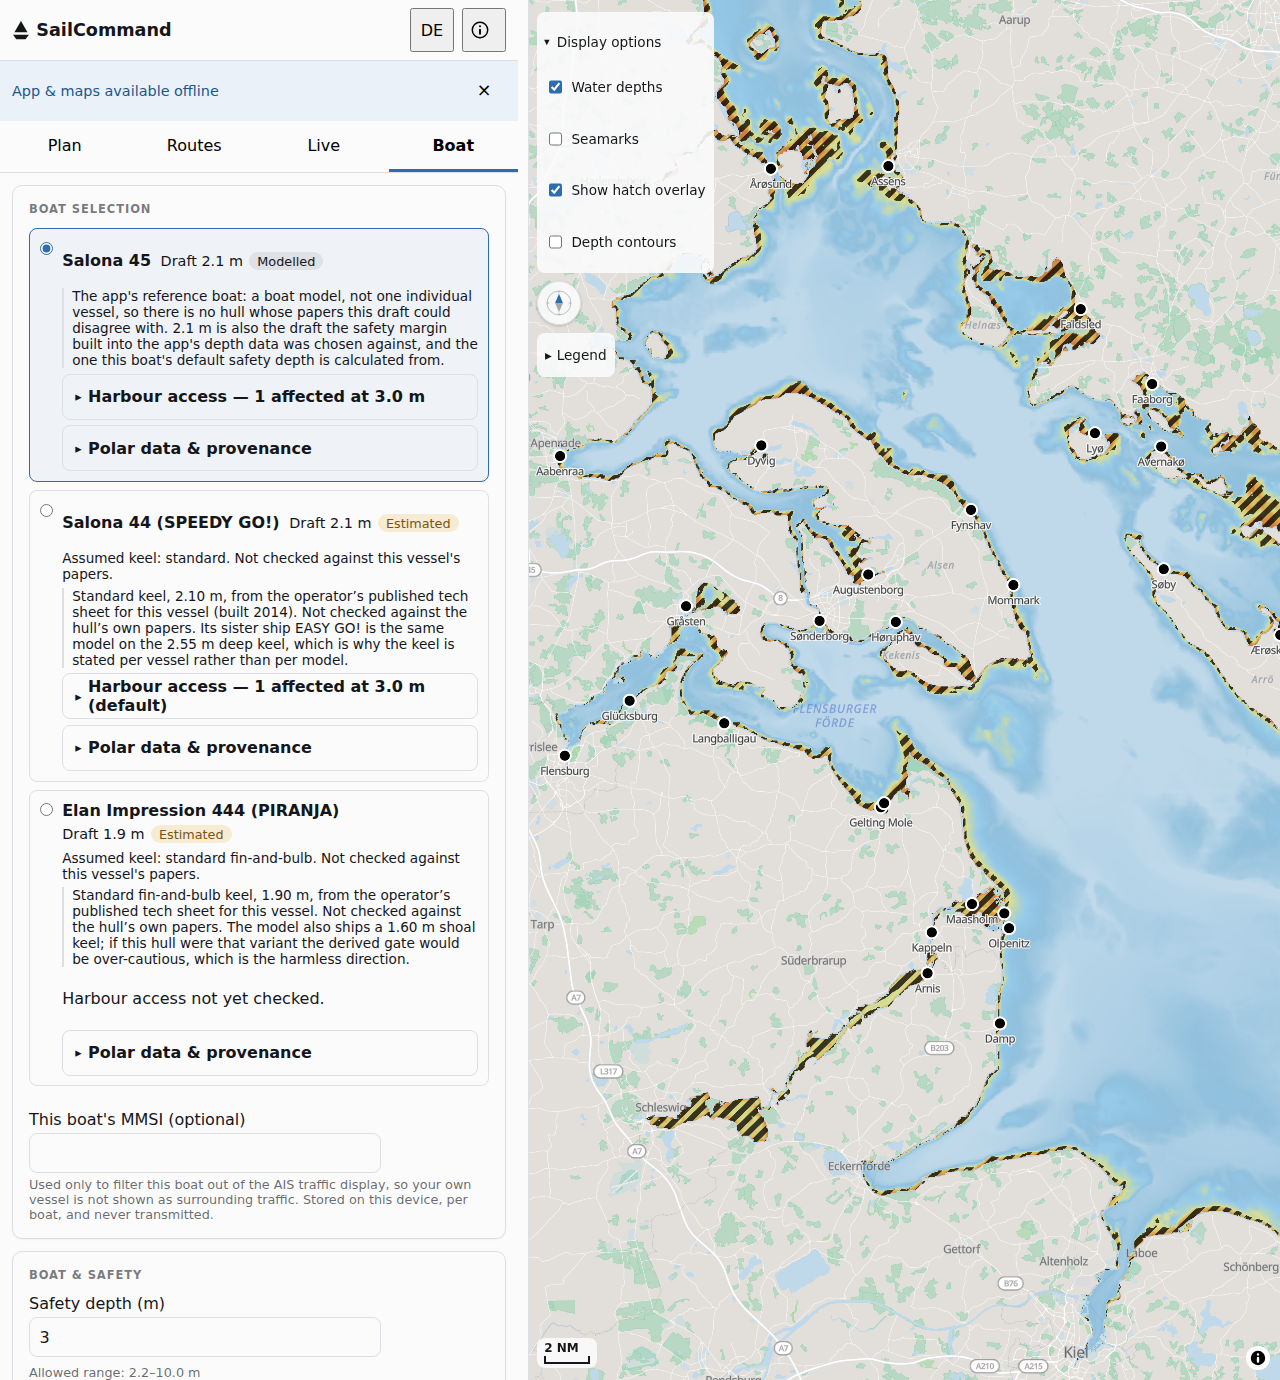
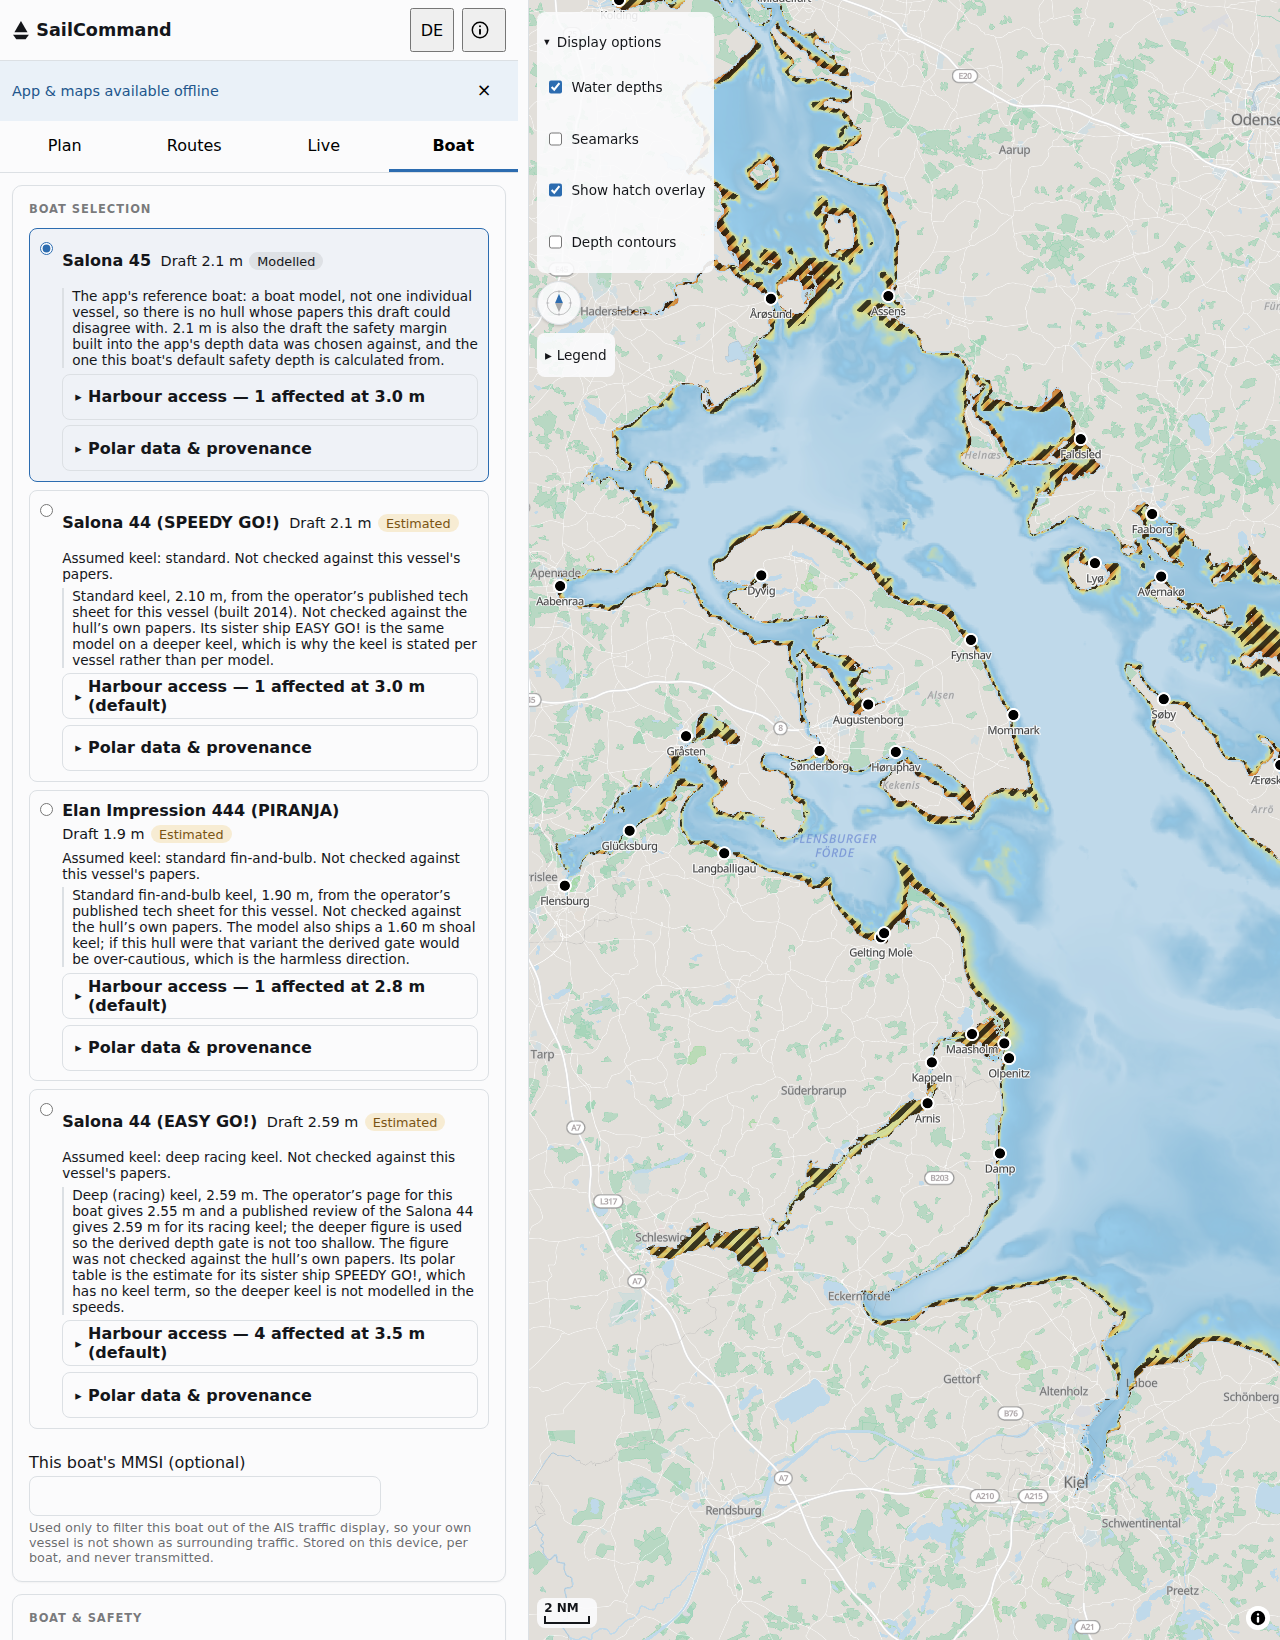
docs: v0.50.0 release sweep (#132 ritual)
Fold changelog.d into [0.50.0] (one under Added, namely #1575; one under
Fixed, namely #1564) and delete the two fragments.

Roll ROADMAP Now/Next, CONTRIBUTING milestones and the security assurance
case status header to this cut; A06 alert query re-run (0 open).

Fleet claims updated for the four-boat catalogue: README intro and polar
provenance, acceptance.md harbour-access and rig-comparison checks.
ROADMAP: #18/#19 sit in Backlog, not Icebox.

Recapture the three docs screenshots against a develop preview build.

diff --git a/docs/security-assurance-case.md b/docs/security-assurance-case.md
@@ -1,7 +1,7 @@
 # SailCommand security assurance case
 
 **Status:** current as of 2026-09-30, describing `develop` at the time of
-writing (`v0.49.0` cut). Reviewed at each release cut.
+writing (`v0.50.0` cut). Reviewed at each release cut.
 **Audience:** users deciding whether to trust the app, and reviewers assessing
 the project (this document is the artifact for the OpenSSF Best Practices
 `assurance_case` criterion).
@@ -375,7 +375,7 @@ place to occur, not that it was judged unlikely.
 | **A03 Injection** (CWE-79 XSS, CWE-89 SQLi, CWE-611 XXE) | Countered | No SQL and no server-side interpreter. XSS: no `innerHTML` / `dangerouslySetInnerHTML` / `eval` / `new Function` anywhere; React escapes by default. XXE: `DOMParser` with `application/xml` does not resolve external entities. CodeQL's `js/xss-through-dom` alert on that parse is a **documented false positive** — its DOM-XSS sink model is mime-insensitive, while an `application/xml` parse is inert and the parser extracts only numeric coordinates and enumerated notices |
 | **A04 Insecure design** | Countered | This document is the design argument; see [§5](#5-secure-design-argument). Threats were considered against the architecture, and the largest control is architectural: no backend, no accounts, no central data |
 | **A05 Security misconfiguration** | Countered | Minimal workflow permissions, SHA-pinned actions, protected branches, secret scanning with push protection, no debug endpoints, static hosting. GitHub Pages cannot set response headers, so the app injects a `<meta http-equiv="Content-Security-Policy">` at build time (`cspMeta()` in `app/vite.config.ts`) with `default-src 'self'`, a `connect-src` allowlist of `'self'` plus Open-Meteo and aisstream.io, `worker-src 'self'` (no `blob:` — it would defeat `script-src 'self'`), `img-src` widened to `data:`/`blob:` where maplibre-gl 6 demonstrably needs it, and no `'unsafe-inline'`/`'unsafe-eval'`, plus the static `<meta name="referrer" content="strict-origin-when-cross-origin">` already present in `app/index.html` ([#223](https://github.com/DocGerd/sail_command/issues/223)). The meta form cannot express `frame-ancestors` or `report-uri` — accepted, static host with no framing threat model and no collector |
-| **A06 Vulnerable and outdated components** (CWE-1104) | Countered | Lockfiles for every ecosystem; Dependabot across five update configurations spanning three package ecosystems (npm ×2, pip ×2, github-actions) weekly plus security updates; no open Dependabot alerts — the live state is the fact rather than this sentence: `gh api repos/DocGerd/sail_command/dependabot/alerts --jq '[.[]\|select(.state=="open")]\|length'` (0 at the `v0.49.0` cut); a committed third-party notices inventory whose drift fails CI; no vendored or forked convenience copies |
+| **A06 Vulnerable and outdated components** (CWE-1104) | Countered | Lockfiles for every ecosystem; Dependabot across five update configurations spanning three package ecosystems (npm ×2, pip ×2, github-actions) weekly plus security updates; no open Dependabot alerts — the live state is the fact rather than this sentence: `gh api repos/DocGerd/sail_command/dependabot/alerts --jq '[.[]\|select(.state=="open")]\|length'` (0 at the `v0.50.0` cut); a committed third-party notices inventory whose drift fails CI; no vendored or forked convenience copies |
 | **A07 Identification and authentication failures** | N/A by architecture | There is no authentication. No accounts, no passwords, no sessions, no password reset, nothing to brute-force |
 | **A08 Software and data integrity failures** (CWE-502) | **Partially countered** | Reproducible double-build with byte-drift gating, SHA-pinned actions, protected branches, post-deploy smoke probe, and — from `v0.8.0` — SSH-signed release tags verifiable via `git tag -v` ([#322](https://github.com/DocGerd/sail_command/issues/322)); the signing key is registered and the `git tag -v` verification path is proven end to end for every signed tag including `v0.8.0`, so a user willing to run that command can confirm a tag traces to the maintainer. GitHub's Verified badge — the no-local-config channel — is a documented exception for the `v0.8.0` tag itself (signed under an email not registered on the maintainer's GitHub account; see `v0.8.1`'s CHANGELOG entry) and does show correctly for **every** tag from `v0.8.1` onward, each reporting `verified: true, reason: "valid"` — re-derivable with `gh api repos/DocGerd/sail_command/git/tags/$(git rev-parse refs/tags/vX.Y.Z) --jq .verification` rather than trusted from a list here. No untrusted deserialization: IndexedDB uses structured clone of the app's own records, and a corrupt record is isolated to its own row rather than blanking the list. **Still partial**: signing covers the tagged commit's authorship, not the deployed artifact bytes GitHub Pages serves, and `v0.1.0`–`v0.7.0` remain permanently unsigned |
 | **A09 Logging and monitoring failures** | Accepted, documented | There is deliberately no telemetry — a privacy choice that means client-side attacks cannot be observed centrally. Repository-side monitoring exists (CodeQL, Dependabot, Scorecard, deploy smoke probe). For a client-only app with no user data on any server, the privacy benefit is judged to outweigh the lost visibility |

diff --git a/ROADMAP.md b/ROADMAP.md
@@ -13,31 +13,32 @@ The authoritative, always-current view is the
 milestones. This file is the human-readable summary of that state, refreshed at
 each release cut.
 
-Current release: **v0.49.0**. See [`CHANGELOG.md`](CHANGELOG.md) for what has
+Current release: **v0.50.0**. See [`CHANGELOG.md`](CHANGELOG.md) for what has
 shipped.
 
-## Now — v0.49.0
+## Now — v0.50.0
 
-The `v0.49.0` cut (2026-09-30) worked the
-[`v0.49.0` milestone](https://github.com/DocGerd/sail_command/milestones):
-four user-visible changes (per `CHANGELOG.md`'s own `[0.49.0]` section) — the
-map legend explaining the `*` forced-segment mark and the segment-mode merge
-refusal naming every waypoint to fix ([#1251](https://github.com/DocGerd/sail_command/issues/1251)), the scale bar re-measuring
-when the map options panel is opened or closed by hand ([#1552](https://github.com/DocGerd/sail_command/issues/1552)), a
-segment-mode-only change no longer collapsing that panel ([#1553](https://github.com/DocGerd/sail_command/issues/1553)), and the
-depth and seamark checkboxes lining up with their labels once a route is
-loaded ([#1558](https://github.com/DocGerd/sail_command/issues/1558)) — plus four issues with no user-visible surface: follow-ups
-to the offline-map-region backfill shipped in `v0.48.0` ([#1550](https://github.com/DocGerd/sail_command/issues/1550)), a rule in place of an incomplete
-`localStorage` key list in the security assurance case ([#1560](https://github.com/DocGerd/sail_command/issues/1560)), a note in
-the sweep-closure skill on ledger entries recorded at a PR head ([#1515](https://github.com/DocGerd/sail_command/issues/1515)),
-and [#1454](https://github.com/DocGerd/sail_command/issues/1454), closed as already resolved by PR #1488 (`v0.44.0`) and verified
-with the sweep harness, with no code change in this cut.
+The `v0.50.0` cut (2026-09-30) worked the
+[`v0.50.0` milestone](https://github.com/DocGerd/sail_command/milestones):
+two user-visible changes (per `CHANGELOG.md`'s own `[0.50.0]` section) — the
+Salona 44 *EASY GO!* (deep keel, 2.59 m draft) joining the boat catalogue as an
+estimated-polar boat, with its 3.5 m default safety depth flagging the
+harbours it cannot reach ([#1575](https://github.com/DocGerd/sail_command/issues/1575)), and a scroll cue on the height-capped open
+display-options list below 820 px ([#1564](https://github.com/DocGerd/sail_command/issues/1564)) — plus two issues with no
+user-visible surface: sister-ship polar sharing in the pipeline, which *EASY
+GO!* uses ([#567](https://github.com/DocGerd/sail_command/issues/567)), and a tidied sentence in the security assurance case
+([#1570](https://github.com/DocGerd/sail_command/issues/1570)).
 
-## Next — v0.50.0
+The `#1240` spike (PR #1577) shipped a recommendation only, in
+`docs/spikes/1240-grosser-belt-coverage.md`; ([#1240](https://github.com/DocGerd/sail_command/issues/1240)) itself moved to
+`Backlog`.
 
-The [`v0.50.0` milestone](https://github.com/DocGerd/sail_command/milestones)
-is empty as of this cut. The milestone page is
-the only authoritative view, check it directly rather than this file.
+## Next — v0.51.0
+
+The [`v0.51.0` milestone](https://github.com/DocGerd/sail_command/milestones)
+holds one issue as of this cut: the remaining self-resolving OpenSSF Scorecard
+findings ([#72](https://github.com/DocGerd/sail_command/issues/72)). The milestone page is the only authoritative view, check it
+directly rather than this file.
 
 ## Themes for the next year
 
@@ -101,7 +102,7 @@ transfer to a fork automatically).
 
 ### Routing depth
 
-The largest open product questions. Both sit in `Icebox` — deferred, not
+The largest open product questions. Both sit in `Backlog` — accepted, not yet
 scheduled into a release:
 
 - Currents, tides, and sea state (waves) in the isochrone cost

diff --git a/docs/acceptance.md b/docs/acceptance.md
@@ -121,10 +121,11 @@ results table at the bottom, and note it in the box below the check.
       the disclosure on a boat with ≥1 affected harbour (SPEEDY GO! and
       PIRANJA both affect Marstal at their own default depth): it lists the
       harbour under "Only via a shallower approach: …" ("Nur über eine
-      flachere Zufahrt: …") — the only wording reachable here: no real
-      catalogue boat is ever `unreachable` for any harbour at its own
-      default gate, so "Not reachable: …" ("Nicht erreichbar: …") cannot
-      be observed under this setup. Whichever of the three states is
+      flachere Zufahrt: …") — the only wording reachable on those two:
+      neither is ever `unreachable` for any harbour at its own default
+      gate, so "Not reachable: …" ("Nicht erreichbar: …") cannot be
+      observed there. EASY GO!'s 3.5 m default gate does reach it (Marstal
+      and Augustenborg, #1575). Whichever of the three states is
       showing (pending, one-line summary, or the disclosure) is chained
       into that boat's own radio's `aria-describedby`, alongside its
       existing keel/draft-
@@ -273,12 +274,12 @@ selected in §1.
     ETA and the chip reads "Faster: …". No ★ is shown when the two ETAs fall
     within 60 s ("… effectively tied …") or the passage runs entirely under
     engine ("Rig does not matter here …").
-  - **SPEEDY GO! or PIRANJA** — both their sails are tier Estimated, so the
-    comparison is withheld: **no ★ on either tab**, and the chip now names the
+  - **SPEEDY GO!, PIRANJA or EASY GO!** — both their sails are tier
+    Estimated, so the comparison is withheld: **no ★ on either tab**, and the chip now names the
     reason — "The sails were not compared for this passage — …'s polar data
     is not certificate-verified (tier: Estimated), so no faster rig is
     claimed" (#1398), where `…` is the plan's own boat name. A missing ★ on
-    these two boats is the designed outcome, not a defect — their two tables
+    these three boats is the designed outcome, not a defect — their two tables
     differ by the Salona 45's overlay ramp, which carries no information
     about the hull.
   - **Any boat, if the chip reads "The search ran out of time before

diff --git a/README.md b/README.md
@@ -13,9 +13,10 @@
 SailCommand plans time-optimal sailing routes from the Flensburg Fjord and
 Danish South Sea to the Little Belt, the western Great Belt approach and
 Fehmarn, using real hourly wind forecasts and an isochrone
-router that accounts for tacks and gybes. It ships polar tables for three
-boats — a Salona 45, a Salona 44 (SPEEDY GO!) and an Elan Impression 444
-(PIRANJA) — and routes for whichever one you pick. It runs entirely in the
+router that accounts for tacks and gybes. It ships polar tables for four
+boats — a Salona 45, a Salona 44 (SPEEDY GO!), an Elan Impression 444
+(PIRANJA) and a Salona 44 on the deep keel (EASY GO!) — and routes for
+whichever one you pick. It runs entirely in the
 browser, installs as an offline-capable app on Android, and needs no account
 or backend.
 
@@ -176,9 +177,10 @@ map area is already saved and what downloading it would cost.
 - **Boat polars (Salona 45)**: estimate derived from the ORC International
   2026 certificate for Salona 45 "Miles Ahead" (AUT 035/26), with downwind
   angles corrected to white-sails-only (non-spinnaker) performance.
-- **Boat polars (Salona 44 SPEEDY GO!, Elan Impression 444 PIRANJA)**:
-  **estimated, not measured**. No ORC/IRC certificate and no published VPP
-  was obtained for either hull, so each table is the Salona 45's
+- **Boat polars (Salona 44 SPEEDY GO!, Elan Impression 444 PIRANJA, Salona 44
+  EASY GO!)**: **estimated, not measured**. No ORC/IRC certificate and no
+  published VPP was obtained for any of these hulls (EASY GO! shares SPEEDY
+  GO!'s table), so each table is the Salona 45's
   certificate-anchored jib table scaled by one uniform hull scalar — the
   square root of the two hulls' sail-area/displacement ratios
   (figures from [sailboatdata.com](https://sailboatdata.com/)), with the

diff --git a/CHANGELOG.md b/CHANGELOG.md
@@ -7,6 +7,16 @@ and this project adheres to [Semantic Versioning](https://semver.org/spec/v2.0.0
 
 ## [Unreleased]
 
+## [0.50.0] - 2026-09-30
+
+### Added
+
+- Salona 44 "EASY GO!" (deep keel, 2.59 m draft) joins the boat catalogue with estimated polar tables shared with SPEEDY GO!; its 3.5 m default safety depth leaves some harbours unreachable, which the harbour markers and the boat-switch announcement flag, and drafts now show up to two decimals (#1575).
+
+### Fixed
+
+- On layouts below 820 px, the height-capped open "Anzeigeoptionen" ("Display options") list now shows a fade at its bottom edge while rows are out of view (#1564).
+
 ## [0.49.0] - 2026-09-30
 
 ### Changed
@@ -1230,7 +1240,8 @@ and this project adheres to [Semantic Versioning](https://semver.org/spec/v2.0.0
 - German/English (de/en) UI localization (#23).
 - Full offline operation after first load via a service worker precache, including the regional PMTiles basemap with Range/206 support (#26).
 
-[Unreleased]: https://github.com/DocGerd/sail_command/compare/v0.49.0...HEAD
+[Unreleased]: https://github.com/DocGerd/sail_command/compare/v0.50.0...HEAD
+[0.50.0]: https://github.com/DocGerd/sail_command/compare/v0.49.0...v0.50.0
 [0.49.0]: https://github.com/DocGerd/sail_command/compare/v0.48.0...v0.49.0
 [0.48.0]: https://github.com/DocGerd/sail_command/compare/v0.47.0...v0.48.0
 [0.47.0]: https://github.com/DocGerd/sail_command/compare/v0.46.0...v0.47.0

diff --git a/CONTRIBUTING.md b/CONTRIBUTING.md
@@ -229,14 +229,14 @@ labels on **pull requests** are applied automatically from changed paths by
 
 **Milestones**
 
-- `v0.50.0` — the milestone now being filled; it closes when the release PR
+- `v0.51.0` — the milestone now being filled; it closes when the release PR
   merges and the tag is pushed.
-- `v0.51.0` — the next MINOR release, opened fresh at the `v0.49.0` cut per
+- `v0.52.0` — the next MINOR release, opened fresh at the `v0.50.0` cut per
   the roll-forward convention below.
 - `Backlog` — accepted, not yet scheduled into a release.
 - `Icebox` — deferred / maybe-never; revisit opportunistically.
 
-`v0.4.0` through `v0.48.0` are closed (plus the `v0.5.1`, `v0.12.1`, and
+`v0.4.0` through `v0.49.0` are closed (plus the `v0.5.1`, `v0.12.1`, and
 `v0.13.1` patch milestones). Whichever cut is in flight is always the
 exception, and reads the same way every time: its issues are closed while
 its milestone object is not, because that closes only at tag push (first
